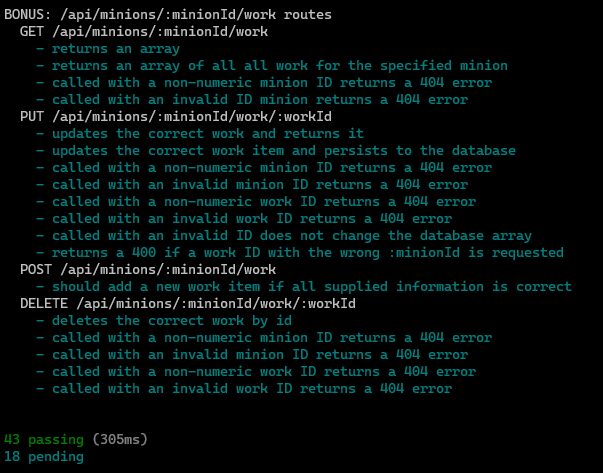
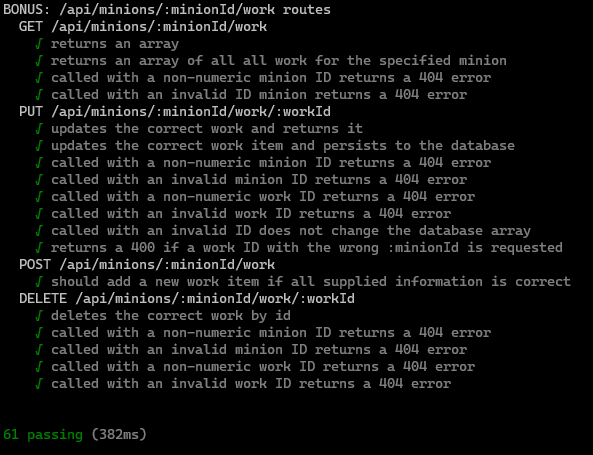
updated test for bonus

Changed region(s): [[0.0, 0.0, 0.9713, 0.8615], [0.0, 0.8923, 0.2428, 0.9846]]

diff --git a/test/test.js b/test/test.js
@@ -686,7 +686,7 @@ describe('/api/meetings routes', function() {
 
 });
 
-xdescribe('BONUS: /api/minions/:minionId/work routes', function() {
+describe('BONUS: /api/minions/:minionId/work routes', function() {
 
   let fakeDb = require('../server/db.js').db;
   
